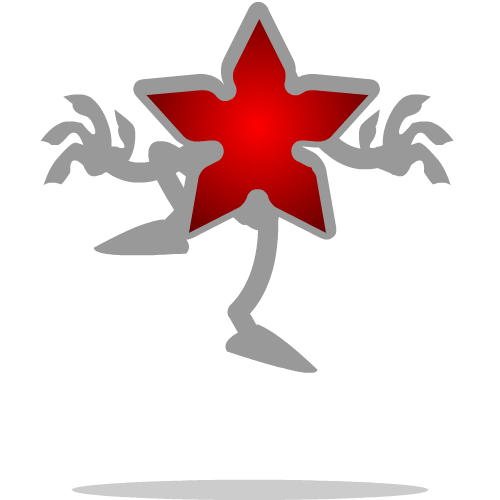
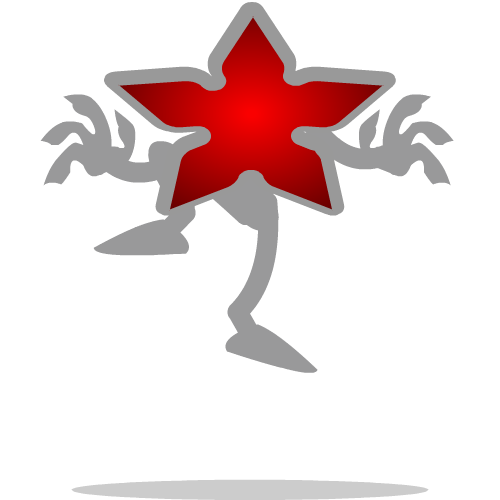
demodog sprites demodog behaviours

Changed region(s): [[0.21, 0.0, 0.81, 0.48]]

diff --git a/sth/cart-mania.html b/sth/cart-mania.html
@@ -10,6 +10,9 @@
 	<script type="text/javascript">
 		$(function(){
 
+
+
+
 			const GRID = 150;
 		
 			let level;
@@ -22,6 +25,7 @@
 				< is in left wall demodog
 			*/
 
+			
 			let patterns = {
 				blank:[
 					'    ',
@@ -79,6 +83,15 @@
 					'    ',
 					' 1  ',
 				],
+				demofarleft:[
+					'1   ',
+				],
+				demofarright:[
+					'   1',
+				],
+				demosplit:[
+					'1  1',
+				],
 				demorow:[
 					'1111',
 				]
@@ -104,6 +117,8 @@
 				speed:1.1,
 				queue:[
 				'blank','blank','blank',
+				'demowallleft','blank',
+				'demowallright','blank',
 				'obsleftright','blank',
 				'demozigzag','blank',
 				'obsrightleft','blank',
@@ -119,11 +134,37 @@
 				]
 			}
 
-			let levels = [a,b];
+			let c = {
+				speed:1.2,
+				queue:[
+				'blank','blank','blank',
+				'obsinout','blank',
+				'demofarleft','blank',
+				'demofarright','blank',
+				'demosplit','blank',
+				]
+			}
+
+			let levels = [b,a,c];
 
 
 			function stepDoNothing(){
 
+			}
+
+			function stepPounce($self){
+				let p = $self.data('p');
+
+				if(p.y-yCar < 1){
+					let sideways = 4/ticksPerSecond;
+					$self.attr('type','1');
+
+					if(p.x<xCar) p.x += sideways;
+					else if(p.x>xCar) p.x -= sideways;
+				}
+
+
+				$self.css({left:p.x*GRID,bottom:p.y*GRID*level.speed}).data('p',p);
 			}
 
 			function stepMoveToward($self){
@@ -133,13 +174,14 @@
 				let forwards = 1/ticksPerSecond;
 
 
+				if(p.y>yCar) p.y -= forwards;
+				if(p.y-yCar < 1) sideways = 4/ticksPerSecond;
+
 				if(p.x<xCar) p.x += sideways;
 				else if(p.x>xCar) p.x -= sideways;
 
-				if(p.y>yCar) p.y -= forwards;
 				
-				$self.css({left:p.x*GRID,bottom:p.y*GRID*level.speed})
-				.data('p',p);
+				$self.css({left:p.x*GRID,bottom:p.y*GRID*level.speed}).data('p',p);
 			}
 
 			function spawnObstacle(x,y,type){
@@ -154,6 +196,8 @@
 				.data('step',stepDoNothing)
 
 				if(type=='1') $o.data('step',stepMoveToward);
+				if(type=='>') $o.data('step',stepPounce);
+				if(type=='<') $o.data('step',stepPounce);
 				
 			}
 
